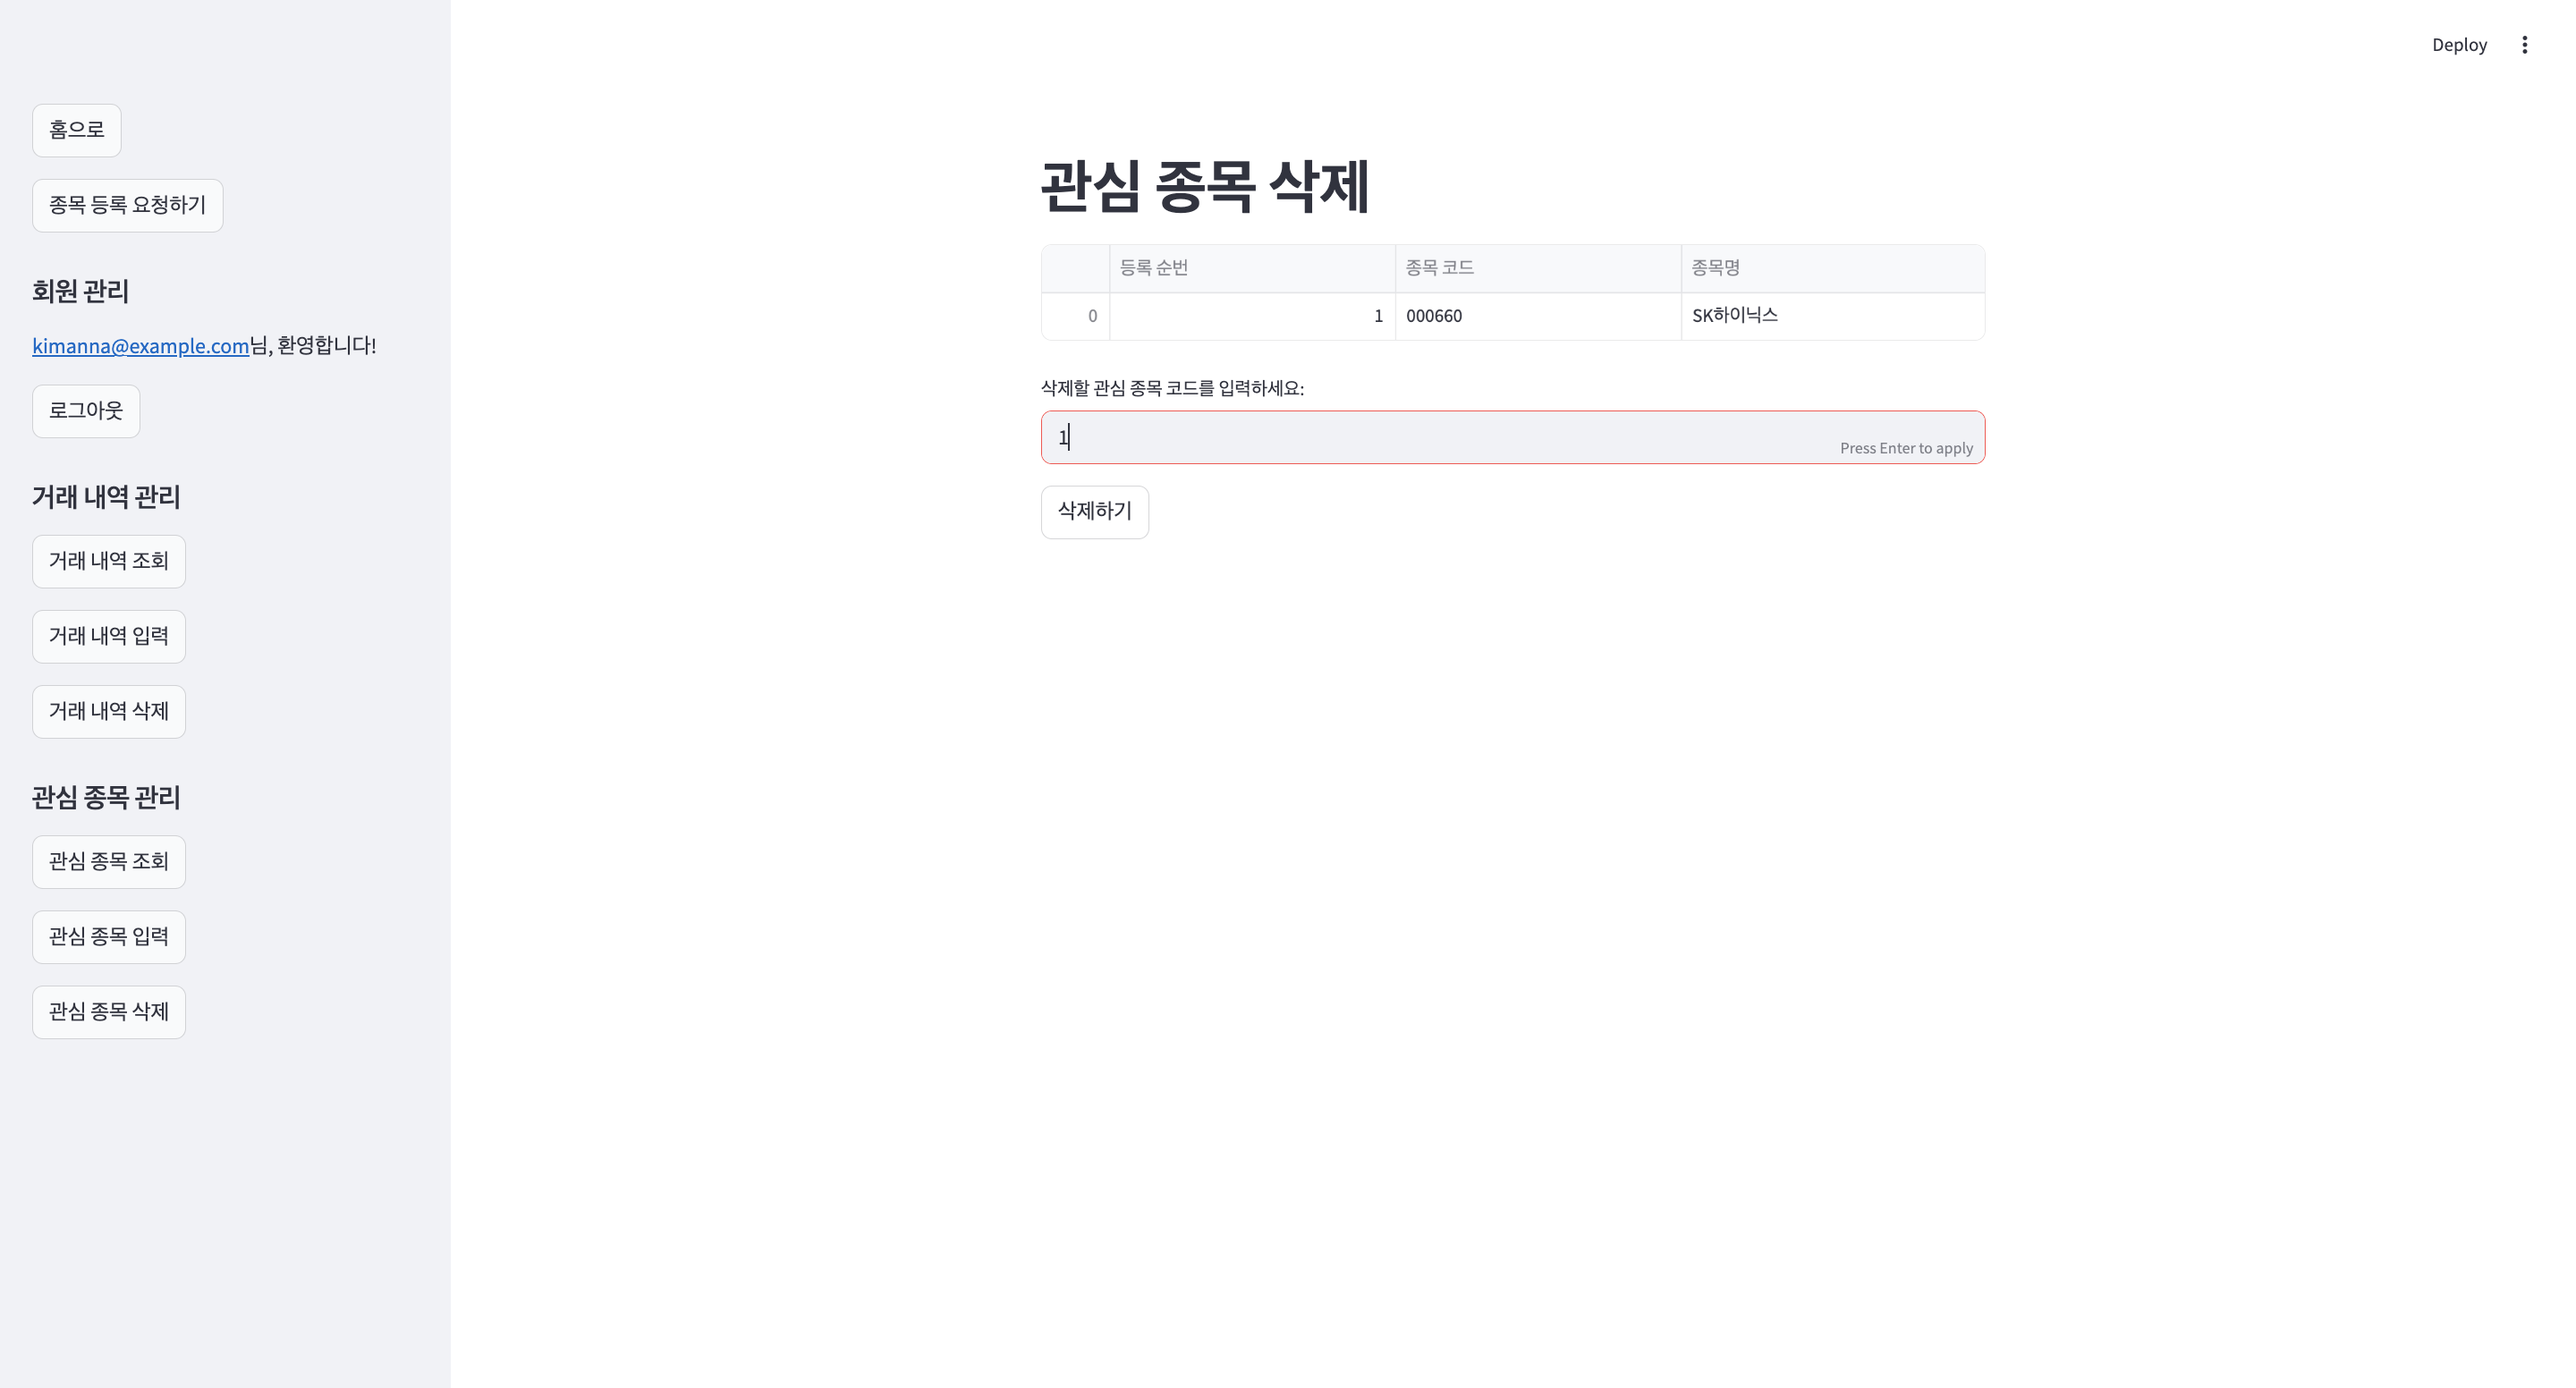
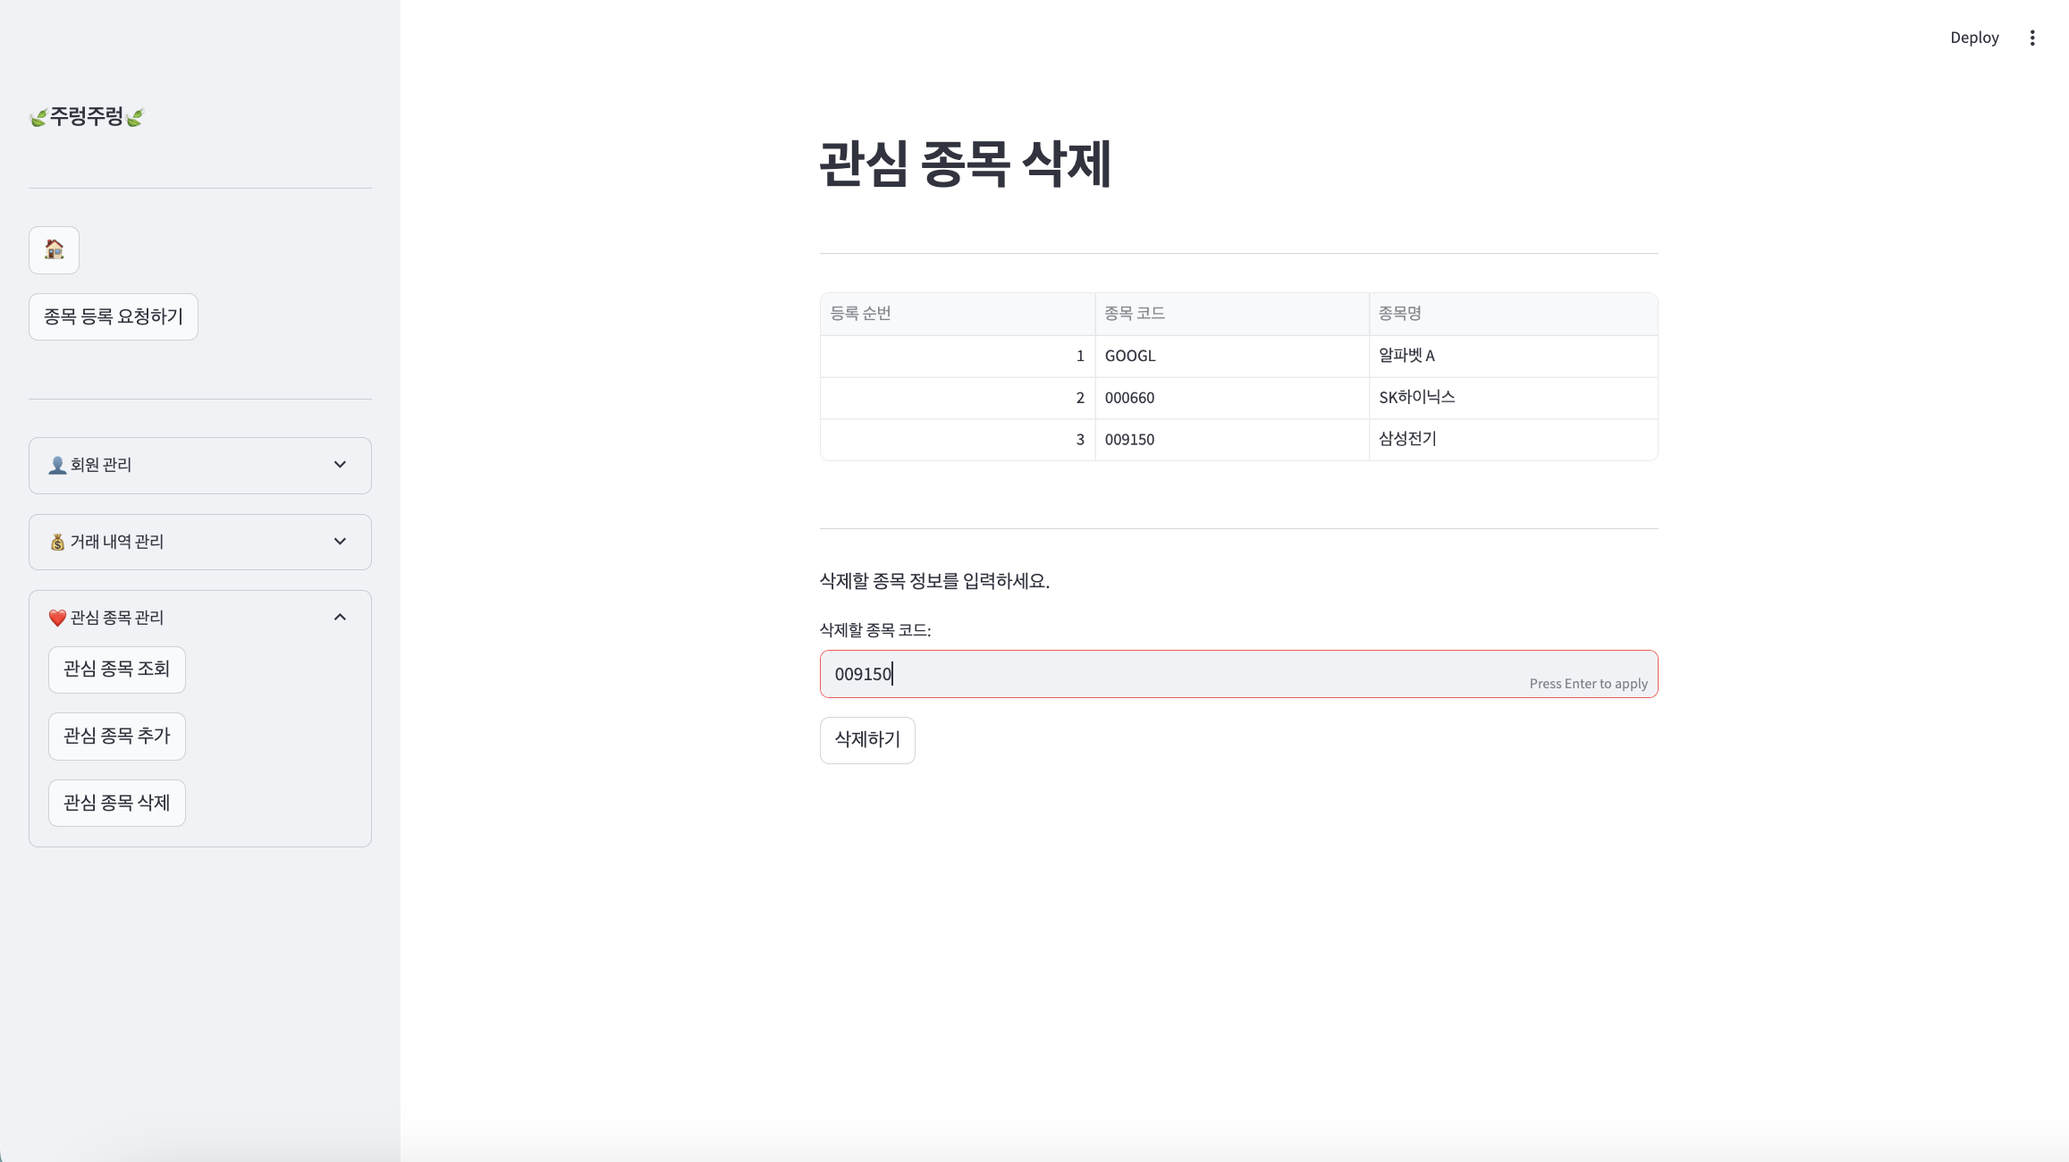
feat: UI 개선

diff --git a/python/app.py b/python/app.py
@@ -29,10 +29,12 @@ if "page" not in st.session_state:
 if "email" not in st.session_state:
     st.session_state.email = None
 
-
 # 사이드바 메뉴 
+st.sidebar.subheader("🍃주렁주렁🍃")
+st.sidebar.divider()
+
 # 메인으로 돌아가기 
-if st.sidebar.button("홈으로"):
+if st.sidebar.button("🏠"):
     st.session_state.page="home"
 # 종목 등록 요청 
 if st.sidebar.button("종목 등록 요청하기"):
@@ -41,45 +43,58 @@ if st.sidebar.button("종목 등록 요청하기"):
 if st.session_state.email=="admin@email.com":
     if st.sidebar.button("등록 요청 관리"):
         st.session_state.page = "request_manage"
+
+st.sidebar.divider()
+
 # 회원 관리 
-st.sidebar.header("회원 관리")
-if st.session_state.member_id:
-    st.sidebar.write(f"{st.session_state.email}님, 환영합니다!")
-    if st.sidebar.button("로그아웃"):
-        st.session_state.member_id = None
-        st.session_state.email = None
-        st.session_state.page = "home"
-        st.rerun()
-else:
-    if st.sidebar.button("회원 가입"):
-        st.session_state.page = "register_member"
-    if st.sidebar.button("로그인"):
-        st.session_state.page = "login"
+with st.sidebar.expander("👤 회원 관리"):
+    if st.session_state.member_id:
+        st.write("현재 로그인 된 계정은")
+        st.write(f"{st.session_state.email} 입니다.")
+        if st.button("로그아웃"):
+            st.session_state.member_id = None
+            st.session_state.email = None
+            st.session_state.page = "home"
+            st.rerun()
+    else:
+        if st.button("회원 가입"):
+            st.session_state.page = "register_member"
+        if st.button("로그인"):
+            st.session_state.page = "login"
+
+
 # 거래 내역 관리 
-st.sidebar.header("거래 내역 관리")
-if st.sidebar.button("거래 내역 조회"):
-    st.session_state.page = "transaction_history"
-if st.sidebar.button("거래 내역 입력"):
-    st.session_state.page = "insert_transaction_history"
-if st.sidebar.button("거래 내역 삭제"):
-    st.session_state.page = "delete_transaction_history"
+with st.sidebar.expander("💰 거래 내역 관리"):
+    if st.button("거래 내역 조회"):
+        st.session_state.page = "transaction_history"
+    if st.button("거래 내역 입력"):
+        st.session_state.page = "insert_transaction_history"
+    if st.button("거래 내역 삭제"):
+        st.session_state.page = "delete_transaction_history"
+
 # 관심 종목 관리 
-st.sidebar.header("관심 종목 관리")
-if st.sidebar.button("관심 종목 조회"):
-    st.session_state.page = "watchlist"
-if st.sidebar.button("관심 종목 입력"):
-    st.session_state.page = "insert_watchlist"
-if st.sidebar.button("관심 종목 삭제"):
-    st.session_state.page = "delete_watchlist"
+with st.sidebar.expander("❤ 관심 종목 관리"):
+    if st.button("관심 종목 조회"):
+        st.session_state.page = "watchlist"
+    if st.button("관심 종목 추가"):
+        st.session_state.page = "insert_watchlist"
+    if st.button("관심 종목 삭제"):
+        st.session_state.page = "delete_watchlist"
+
 
 
 # 각 메뉴별 페이지 구현 
 page = st.session_state.get("page", "home")
 # 기본 시작 화면 
 if page=="home":
+    col1, col2, col3 = st.columns([1,2,1])
+    with col2:
+        st.title("🍃주렁주렁🍃")
+    st.divider()
     # 로그인 확인 
     if st.session_state.member_id:
-        st.title(f"{st.session_state.email}님, 환영합니다!")
+        st.subheader(f"{st.session_state.email}님, 환영합니다!")
+        st.divider()
     # 연령대별 인기 종목 확인 
         st.subheader("연령대별 인기 종목 현황")
 
@@ -97,10 +112,15 @@ if page=="home":
         # 시각화 
         with st.expander("그래프로 보기"):
             df_age=df[df["연령대"]==age].sort_values("관심 인원 수", ascending=True)
-            plt.barh(df_age["종목명"], df_age["관심 인원 수"])
-            plt.xlabel("관심 인원 수")
-            plt.gca().xaxis.set_major_locator(MultipleLocator(1))
-            st.pyplot(plt)
+
+            fig, ax = plt.subplots()
+            ax.barh(df_age["종목명"], df_age["관심 인원 수"])
+            ax.set_xlabel("관심 인원 수")
+            ax.xaxis.set_major_locator(MultipleLocator(1))
+            st.pyplot(fig)
+            plt.close(fig)
+
+        st.divider()
 
         # 뉴스 검색 기능 
         st.subheader("실시간 뉴스 검색")
@@ -119,12 +139,12 @@ if page=="home":
                 else:
                     st.write("현재 관련 뉴스가 없습니다.")
     else:
-        st.title("주렁주렁")
         st.write("개인 투자 포트폴리오 관리 웹 서비스입니다. 로그인 후 기능들을 이용할 수 있습니다.")
 
 # 회원 가입 화면 
 if page=="register_member":
     st.title("회원 가입")
+    st.divider()
     name = st.text_input("이름:")
     email = st.text_input("이메일:")
     password = st.text_input("비밀번호:", type="password")
@@ -139,6 +159,7 @@ if page=="register_member":
 # 로그인 화면 
 if page=="login":
     st.title("로그인")
+    st.divider()
     email = st.text_input("이메일:")
     password = st.text_input("비밀번호:", type="password")
     if st.button("로그인하기"):
@@ -158,6 +179,7 @@ if page=="transaction_history":
         st.error("로그인이 필요합니다.")
     else:
         st.title("거래 내역 조회")
+        st.divider()
         result=get_transaction_history(st.session_state.member_id)
         if result:
             df=pd.DataFrame(result,
@@ -169,17 +191,22 @@ if page=="transaction_history":
             df["거래 가격(1주)"]=df["거래 가격(1주)"].apply(lambda x: f"{x:,}")
             st.dataframe(df, hide_index=True)
 
+            # 현재 보유 종목만 조회 
+            st.divider()
             st.subheader("현재 보유 종목")
             result2=get_current_holdings(st.session_state.member_id)
             df2=pd.DataFrame(result2, 
                              columns=["종목 코드","종목명","보유 수량"])
             st.dataframe(df2, hide_index=True)
 
-            plt.bar(df2["종목명"], df2["보유 수량"], width=0.2)
-            plt.xlabel("종목명")
-            plt.ylabel("보유 수량")
-            st.pyplot(plt)
-
+            # 시각화 
+            with st.expander("그래프로 보기"):
+                fig, ax = plt.subplots()
+                ax.bar(df2["종목명"], df2["보유 수량"], width=0.2)
+                ax.set_xlabel("종목명")
+                ax.set_ylabel("보유 수량")
+                st.pyplot(fig)
+                plt.close(fig)
         else:
             st.write("저장된 거래 내역이 없습니다.")
 
@@ -189,7 +216,9 @@ if page=="insert_transaction_history":
         st.error("로그인이 필요합니다.")
     else:
         st.title("거래 내역 입력")
+        st.divider()
 
+        # 현재 등록된 종목 조회 
         st.write("입력 가능한 종목(없는 종목은 등록 신청을 먼저 해주세요.)")
         result=view_stocks()
         df=pd.DataFrame(result,
@@ -197,6 +226,10 @@ if page=="insert_transaction_history":
                             )
         st.dataframe(df, hide_index=True)
 
+        st.divider()
+
+        # 거래 내역 입력 
+        st.write("등록할 거래 정보를 입력하세요.")
         stock_code = st.text_input("종목 코드:")
         transaction_date = st.date_input("거래 날짜:", value=date.today(), min_value=date(1900,1,1), max_value=date.today())
         transaction_type = st.selectbox("거래 유형:", ["buy", "sell"])
@@ -213,6 +246,9 @@ if page=="delete_transaction_history":
         st.error("로그인이 필요합니다.")
     else:
         st.title("거래 내역 삭제")
+        st.divider()
+
+        # 등록된 거래 내역 조회 
         st.write("등록된 거래 내역")
         result=get_transaction_history(st.session_state.member_id)
         if result:
@@ -226,7 +262,10 @@ if page=="delete_transaction_history":
 
             st.dataframe(df, hide_index=True)
 
-            delete_id = st.number_input("삭제할 거래 등록 순번을 입력하세요:", min_value=1, max_value=len(df), step=1)
+            st.divider()
+
+            # 거래 내역 삭제 
+            delete_id = st.number_input("삭제할 거래 등록 순번을 입력하세요:", min_value=1, step=1)
             if st.button("삭제하기"):
                 transaction_id=result[delete_id-1][0]
                 delete_transaction_history(transaction_id)
@@ -242,6 +281,9 @@ if page=="watchlist":
         st.error("로그인이 필요합니다.")
     else:
         st.title("관심 종목 조회")
+        st.divider()
+
+        # 등록된 관심 종목 조회 
         result=get_watchlist(st.session_state.member_id)
         if result:
             df=pd.DataFrame(result,
@@ -250,6 +292,8 @@ if page=="watchlist":
             df=df.drop(columns=["관심 목록 ID"])
             df.insert(0,"등록 순번",range(1,len(df)+1))
             st.dataframe(df, hide_index=True)
+
+            st.divider()
 
             # 관심 종목 뉴스 조회 
             st.subheader("관심 종목 뉴스 보기")
@@ -271,7 +315,9 @@ if page=="insert_watchlist":
         st.error("로그인이 필요합니다.")
     else:
         st.title("관심 종목 추가")
+        st.divider()
 
+        # 현재 등록된 종목 조회 
         st.write("입력 가능한 종목(없는 종목은 등록 신청을 먼저 해주세요.)")
         result=view_stocks()
         df=pd.DataFrame(result,
@@ -279,6 +325,10 @@ if page=="insert_watchlist":
                             )
         st.dataframe(df, hide_index=True)
 
+        st.divider()
+
+        # 관심 종목 등록 
+        st.write("추가할 종목 정보를 입력하세요.")
         stock_code = st.text_input("관심 종목 코드:")
         if st.button("추가하기"):
             if not check_stock(stock_code):
@@ -295,7 +345,9 @@ if page=="delete_watchlist":
         st.error("로그인이 필요합니다.")
     else:
         st.title("관심 종목 삭제")
+        st.divider()
 
+        # 등록된 관심 종목 내역 
         result=get_watchlist(st.session_state.member_id)
         if result:
             df=pd.DataFrame(result,
@@ -305,7 +357,11 @@ if page=="delete_watchlist":
             df.insert(0,"등록 순번",range(1,len(df)+1))
             st.dataframe(df, hide_index=True)
 
-            delete_code = st.text_input("삭제할 관심 종목 코드를 입력하세요:")
+            st.divider()
+
+            # 관심 종목 삭제 
+            st.write("삭제할 종목 정보를 입력하세요.")
+            delete_code = st.text_input("삭제할 종목 코드:")
             if st.button("삭제하기"):
                 delete_watchlist(st.session_state.member_id, delete_code)
                 st.success("관심 종목이 성공적으로 삭제되었습니다.")
@@ -317,7 +373,7 @@ if page=="delete_watchlist":
 # 종목 등록 요청 화면 
 if page=="request_stock":
     if st.session_state.member_id is None:
-        st.write("로그인이 필요합니다.")
+        st.error("로그인이 필요합니다.")
     else:
         st.title("종목 등록 요청")
         st.write("등록을 원하는 종목의 정보를 입력해주세요.")
@@ -344,7 +400,7 @@ if page=="request_manage":
                         columns=["등록 순번","회원 ID", "종목 코드","종목 이름","등록 날짜","처리 상태"])
         st.dataframe(df, hide_index=True)
 
-        request_id=st.number_input("등록 처리할 순번을 입력하세요.:", min_value=1,max_value=len(df), step=1 )
+        request_id=st.number_input("등록 처리할 순번을 입력하세요.:",step=1)
         if st.button("등록 처리"):
             confirm_request(request_id)
             st.success("등록 처리 되었습니다.")

diff --git a/python/news.py b/python/news.py
@@ -96,7 +96,7 @@ def get_recommended_news(stock):
     scores = scores[0]
 
     # 관련 뉴스 기준
-    threshold = 0.4
+    threshold = 0.2
 
     # 최종 결과를 저장할 리스트
     results = []
